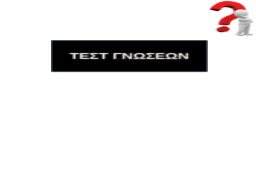
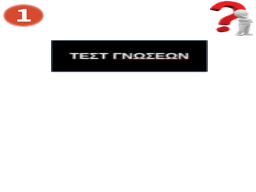
fixes for img and thumb 10

Changed region(s): [[0.0, 0.0, 0.1875, 0.1562]]

diff --git a/pinakas.html b/pinakas.html
@@ -172,7 +172,7 @@
 
 
 <a href="img10.html"> <strong>Test 1</strong> </a> <br> <br>
-<a href="img10.html"><img src="img10.png" width="200" height="230" alt=""></a>
+<a href="img10.html"><img src="thumb10.png" width="200" height="230" alt=""></a>
 <br> <br> <br> <br> 
 
 
